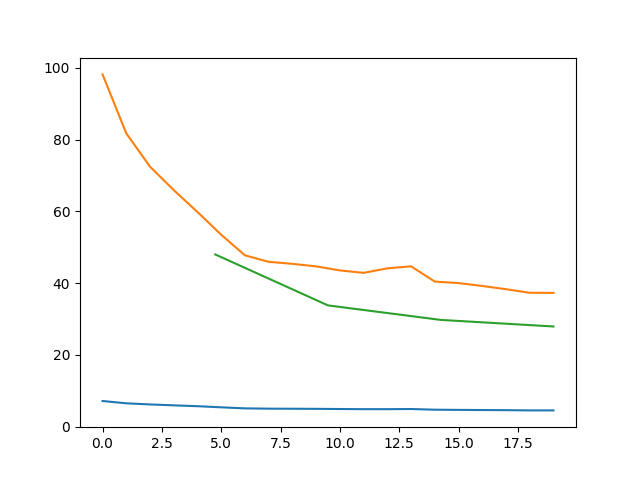
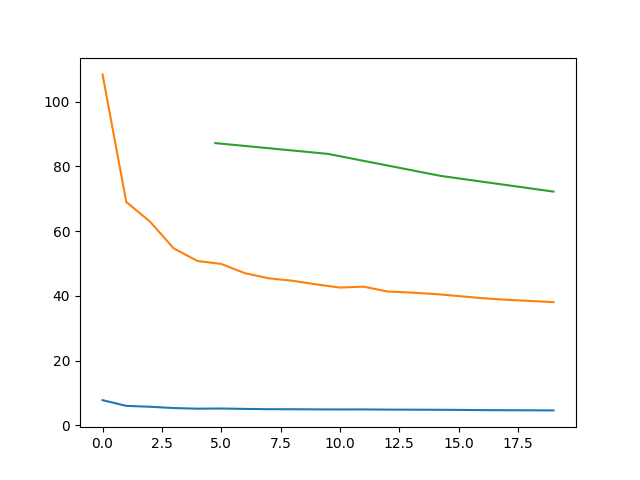
save before whole Mnist restart

diff --git a/Assignement 1/100201006_HW1.py b/Assignement 1/100201006_HW1.py
@@ -57,7 +57,7 @@ optimizer = optim.Adam(boston_model.parameters(), lr=0.01)
 y_boston_loss = []
 y_boston_diff = []
 y_boston_val_loss = []
-for epoch in range(EPOCHS): 
+for epoch in range(0): 
     sum_loss = 0
     sum_difference = 0
     for data in trainloader:
@@ -89,10 +89,10 @@ for epoch in range(EPOCHS):
                 sum_difference+= abs(labels-outputs.item())
             print(f"[VALIDATION] Average loss: {sum_loss/len(testloader)}, Average difference: {sum_difference/len(testloader)}")
         y_boston_val_loss.append(sum_loss/len(testloader))
-plt.plot(x, y_boston_diff)
-plt.plot(x, y_boston_loss)
-plt.plot(x_validation,y_boston_val_loss)
-plt.savefig(PATH+"boston.png")   
+#plt.plot(x, y_boston_diff)
+#plt.plot(x, y_boston_loss)
+#plt.plot(x_validation,y_boston_val_loss)
+#plt.savefig(PATH+"boston.png")   
 
 
 # ---------------------------------------------------------------------------- #
@@ -140,7 +140,7 @@ metric = BinaryAccuracy()
 y_cancer_loss = []
 y_cancer_acc = []
 y_cancer_val_loss = []
-for epoch in range(EPOCHS): 
+for epoch in range(0): 
     sum_loss = 0
     accuracy = 0
     for input,label in cancer_train_loader:
@@ -166,12 +166,12 @@ for epoch in range(EPOCHS):
         print(f"[VALIDATION] Average loss: {sum_loss*BATCH_SIZE/len(cancer_test_loader)}")
         y_cancer_val_loss.append(sum_loss*BATCH_SIZE/len(cancer_test_loader))
 
-plt.clf()
-plt.ylim(0,100)
-plt.plot(x,y_cancer_loss)
-plt.plot(x,y_cancer_acc)
-plt.plot(x_validation,y_cancer_val_loss)
-plt.savefig(PATH+"cancer.png")
+#plt.clf()
+#plt.ylim(0,100)
+#plt.plot(x,y_cancer_loss)
+#plt.plot(x,y_cancer_acc)
+#plt.plot(x_validation,y_cancer_val_loss)
+#plt.savefig(PATH+"cancer.png")
 
 # ---------------------------------------------------------------------------- #
 #                                     MNIST                                    #
@@ -185,7 +185,7 @@ print("# ----------------------------------- MNIST -----------------------------
 train_images, test_images = train_images/255,test_images/255
 
 mnist_x_train = torch.tensor(train_images).to(torch.float64)
-train_labels = [np.eye(1, 10, k = train_labels[i]) for i in train_labels]
+train_labels = [np.array([1 if i == num else 0 for i in range(10)]) for num in train_labels]
 mnist_y_train = torch.tensor(train_labels).to(torch.float64)
 mnist_x_test = torch.tensor(test_images).to(torch.float64)
 test_labels = [np.eye(1, 10, k = test_labels[i]) for i in test_labels]
@@ -202,19 +202,24 @@ class MnistClassifier(nn.Module):
     def __init__(self):
         super(MnistClassifier, self).__init__()
         self.conv1 = nn.Conv2d(1, 32, kernel_size=5).to(torch.float64)
-        self.conv2 = nn.Conv2d(32, 16, kernel_size=5).to(torch.float64)
-        self.maxpool = nn.MaxPool2d(2).to(torch.float64)
-        self.fc1 = nn.Linear(16 * 4 * 4, 128).to(torch.float64)
-        self.fc2 = nn.Linear(128, 10).to(torch.float64)
+        self.conv2 = nn.Conv2d(32, 64, kernel_size=5).to(torch.float64)
+        self.maxpool1 = nn.MaxPool2d(2,2).to(torch.float64)
+        self.maxpool2 = nn.MaxPool2d(2).to(torch.float64)
+        self.fc1 = nn.Linear(64 * 4 * 4, 512).to(torch.float64)
+        self.drop = nn.Dropout(0.25)
+        self.fc2 = nn.Linear(512, 10).to(torch.float64)
+        self.relu = nn.ReLU()
 
     def forward(self, inp):
         out = self.conv1(inp)
-        out = self.maxpool(out)
+        out = self.relu(out)
+        out = self.maxpool1(out)
         out = self.conv2(out)
-        out = self.maxpool(out)
+        out = self.relu(out)
+        out = self.maxpool2(out)
         out = out.view(out.size(0), -1)
         out = self.fc1(out)
-        out = torch.relu(out)
+        out = self.drop(out)
         out = self.fc2(out)
         return out
 
@@ -230,20 +235,25 @@ y_mnist_acc = []
 y_mnist_val_loss = []
 for epoch in range(EPOCHS):
     sum_loss = 0
-    accuracy = 0
+    tp = 0
+    total = 0
     for items, labels in mnist_train_loader:
         items = items[:,None,:,:]
         optimizer.zero_grad()
         outputs = mnist_model(items)
-        outputs = outputs.view(-1,1,10)
+        compare = torch.argmax(outputs,1)
+        for pred,tar in zip(compare,labels):
+            targ = torch.argmax(tar,0)
+            if pred == targ:
+                tp+=1
+            total += 1
         loss = criterion(outputs, labels)
         loss.backward()
         optimizer.step()
         sum_loss += loss.item()
-        accuracy += metric(outputs,labels)
-    print(f"[EPOCH {epoch+1}/{EPOCHS}] Average loss: {sum_loss*BATCH_SIZE/len(mnist_train_loader)},Accuracy: {accuracy*BATCH_SIZE/len(mnist_test_loader)}%")
+    print(f"[EPOCH {epoch+1}/{EPOCHS}] Average loss: {sum_loss*BATCH_SIZE/len(mnist_train_loader)},Accuracy: {tp*100/total}%")
     y_mnist_loss.append(sum_loss*BATCH_SIZE/len(mnist_train_loader))
-    y_mnist_acc.append(accuracy*BATCH_SIZE/len(mnist_test_loader))
+    y_mnist_acc.append(tp*100/total)
     
     # -------------------------------- VALIDATION -------------------------------- #
     if (epoch+1)%5==0:
